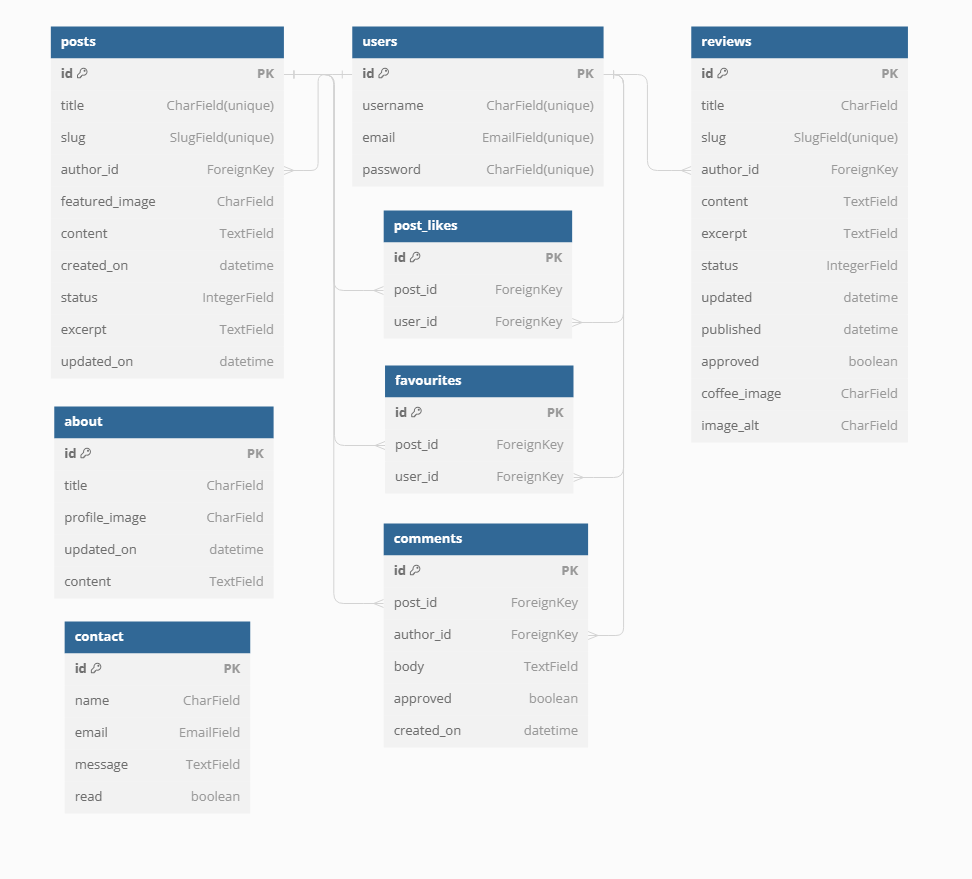
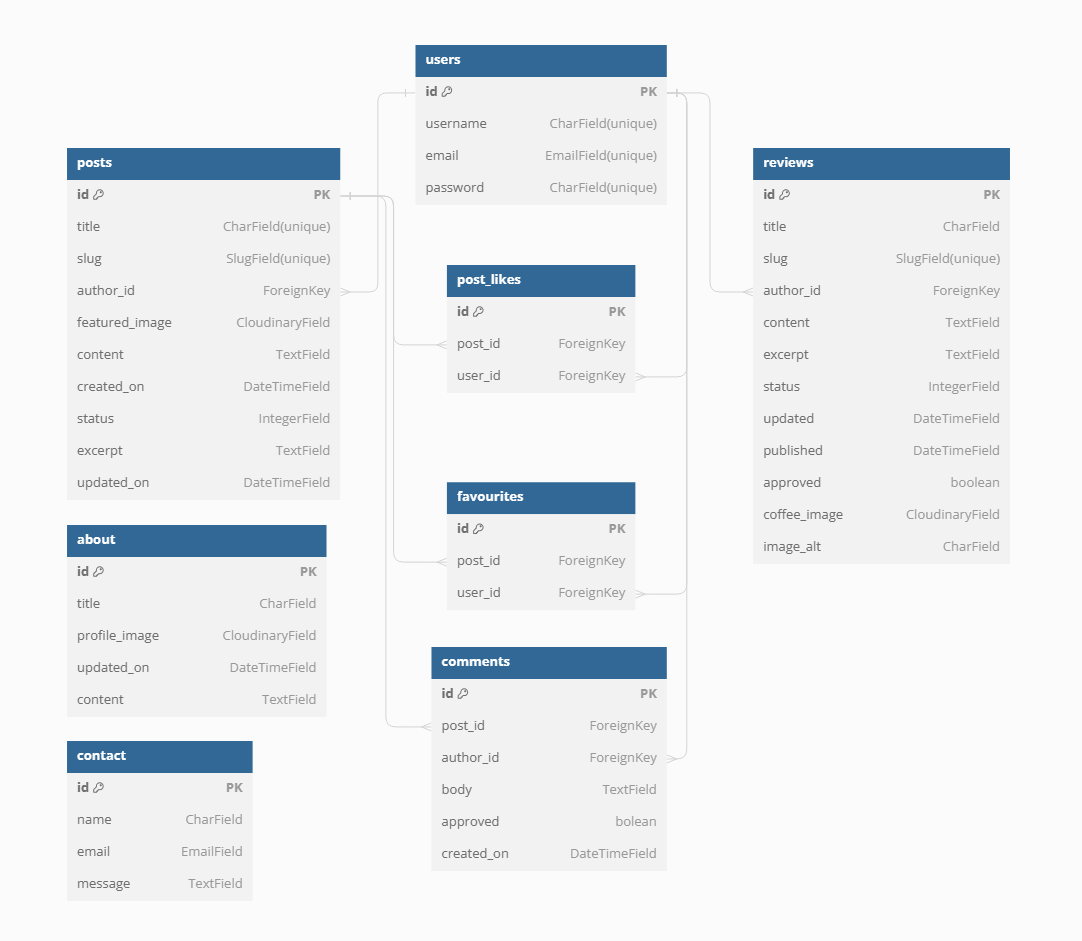
documatentation/erd - upload new updated erd image

diff --git a/README.md b/README.md
@@ -1,5 +1,5 @@
 <p align="center">
-  <img src="static/images/mug-white.png" alt="Software Stacks Logo">
+  <img src="static/images/mug-white.png" alt="Cups Of Joy Logo">
 </p>
 <h1 align="center">Cups Of Joy</h1>
 
@@ -659,24 +659,18 @@ Security is a paramount concern for a platform like Cups Of Joy, which handles u
 
 Software Stacks is a dynamic web application that allows users to engage with content across various technology domains. Below is a table highlighting its features, detailing the level of access for unregistered and registered users, and the CRUD (Create, Read, Update, Delete) functionalities available:
 
-| Feature                   | Unregistered User Access | Registered User Access         | CRUD Functionality               |
-|---------------------------|--------------------------|--------------------------------|----------------------------------|
-| **Landing Page**          | Viewable                 | Viewable                       | Read                             |
-| **Registration**          | Available                | N/A                            | Create                           |
-| **Login**                 | Available                | N/A                            | Create/Read                      |
-| **Browse Posts**          | Viewable                 | Viewable                       | Read                             |
-| **View Categories**       | Viewable                 | Viewable                       | Read                             |
-| **Post Details**          | Limited Interaction      | Full Interaction (like, comment, bookmark) | Read/Create/Update/Delete    |
-| **Profile Management**    | Not Available            | Available                      | Create/Read/Update/Delete        |
-| **Create New Post**       | Not Available            | Available                      | Create                           |
-| **Edit/Delete Post**      | Not Available            | Available (Own Posts)          | Update/Delete                    |
-| **Like Posts**            | Not Available            | Available                      | Create/Delete                    |
-| **Bookmark Posts**        | Not Available            | Available                      | Create/Delete                    |
-| **Comment on Posts**      | Not Available            | Available                      | Create/Update/Delete             |
-| **Search Functionality**  | Available                | Enhanced (user-specific results) | Read                             |
-| **User Interaction**      | Not Available            | Follow/Unfollow Users, Interact with Community | Create/Read/Delete             |
-| **About & Contact**       | Viewable                 | Viewable                       | Read                             |
-| **Search**            | Available                    | Available        | Not Available                    |                 |
+| Feature | Visitor | Registered User | CRUD Functionality |
+|---------|---------|-----------------|---------------------|
+| View Coffee Shop Reviews | Read | Read | Read |
+| Create New Coffee Shop Review | - | Create | Create |
+| Update Existing Coffee Shop Review | - | Update | Update |
+| Delete Coffee Shop Review | - | Delete | Delete |
+| Like/Unlike Coffee Shop Reviews | - | Create, Delete | Create, Delete |
+| Leave Comments on Reviews | - | Create | Create |
+| Update/Delete Comments | - | Update, Delete | Update, Delete |
+| View User Profile | Read | Read, Update | Read, Update |
+| Manage Favorite Reviews | - | Create, Read, Delete | Create, Read, Delete |
+| Search Functionality | Read | Read | Read |
 
 ---
 
